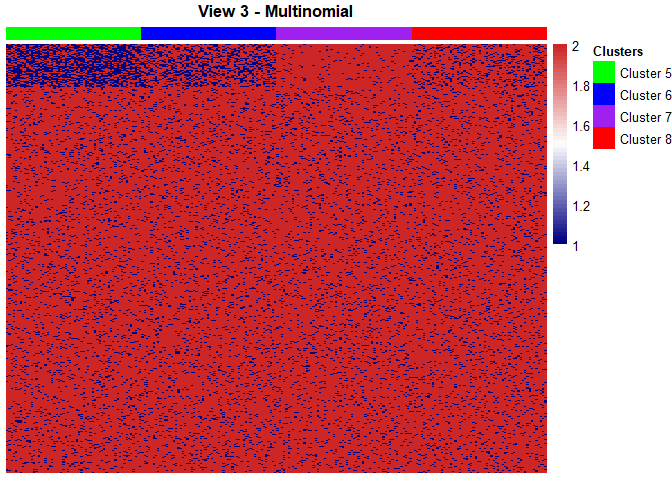
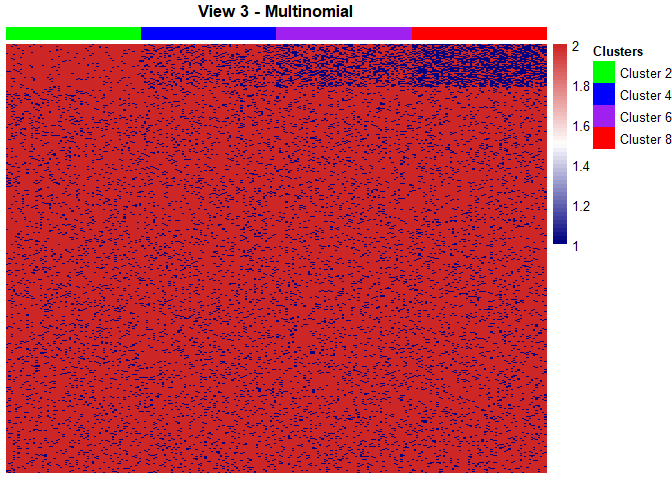
Updated

Changed region(s): [[0.0, 0.0938, 0.8125, 1.0], [0.9688, 0.1875, 1.0, 0.25], [0.9688, 0.125, 1.0, 0.1562]]

diff --git a/README.md b/README.md
@@ -181,10 +181,10 @@ fit_iClusterVB <- iClusterVB(
   mydata = dat1,
   dist = dist,
   K = 8,
-  initial_method = "kproto",
+  initial_method = "VarSelLCM",
   VS_method = 1, # Variable Selection is on
   max_iter = 100,
-  per = 20
+  per = 100
 )
 #> ------------------------------------------------------------
 #> Pre-processing and initializing the model
@@ -193,11 +193,7 @@ fit_iClusterVB <- iClusterVB(
 #> ------------------------------------------------------------
 #> Running the CAVI algorithm
 #> ------------------------------------------------------------
-#> iteration = 20 elbo = -70674227.531156  
-#> iteration = 40 elbo = -63616639.978262  
-#> iteration = 60 elbo = -55236748.725071  
-#> iteration = 80 elbo = -49220663.903095  
-#> iteration = 100 elbo = -44169515.356301
+#> iteration = 100 elbo = -43591384.761314
 ```
 
 ### Comparing to True Cluster Membership
@@ -206,10 +202,10 @@ fit_iClusterVB <- iClusterVB(
 table(fit_iClusterVB$cluster, sim_data$cluster_true)
 #>    
 #>      1  2  3  4
-#>   5  0  0  0 60
+#>   2 60  0  0  0
+#>   4  0 60  0  0
 #>   6  0  0 60  0
-#>   7 60  0  0  0
-#>   8  0 60  0  0
+#>   8  0  0  0 60
 ```
 
 ### Summary of the Model
@@ -224,20 +220,20 @@ summary(fit_iClusterVB)
 #> Number of clusters determined by algorithm: 4
 #> 
 #> Cluster Membership:
-#>  5  6  7  8 
+#>  2  4  6  8 
 #> 60 60 60 60 
 #> 
 #> # of variables above the posterior inclusion probability of 0.5 for View 1 - gaussian
-#> [1] "56 out of a total of 500"
-#> 
-#> # of variables above the posterior inclusion probability of 0.5 for View 2 - gaussian
 #> [1] "58 out of a total of 500"
 #> 
+#> # of variables above the posterior inclusion probability of 0.5 for View 2 - gaussian
+#> [1] "59 out of a total of 500"
+#> 
 #> # of variables above the posterior inclusion probability of 0.5 for View 3 - multinomial
-#> [1] "64 out of a total of 500"
+#> [1] "62 out of a total of 500"
 #> 
 #> # of variables above the posterior inclusion probability of 0.5 for View 4 - poisson
-#> [1] "67 out of a total of 500"
+#> [1] "69 out of a total of 500"
 ```
 
 ### Generic Plots
@@ -268,8 +264,6 @@ list_of_plots <- chmap(fit_iClusterVB, rho = 0,
                "purple", "red"),
       scale = "none")
 ```
-
-<img src="man/figures/README-chmap-1.png" width="100%" /><img src="man/figures/README-chmap-2.png" width="100%" /><img src="man/figures/README-chmap-3.png" width="100%" /><img src="man/figures/README-chmap-4.png" width="100%" />
 
 ``` r
 # The `grid.arrange` function from gridExtra can be used to display all the 
